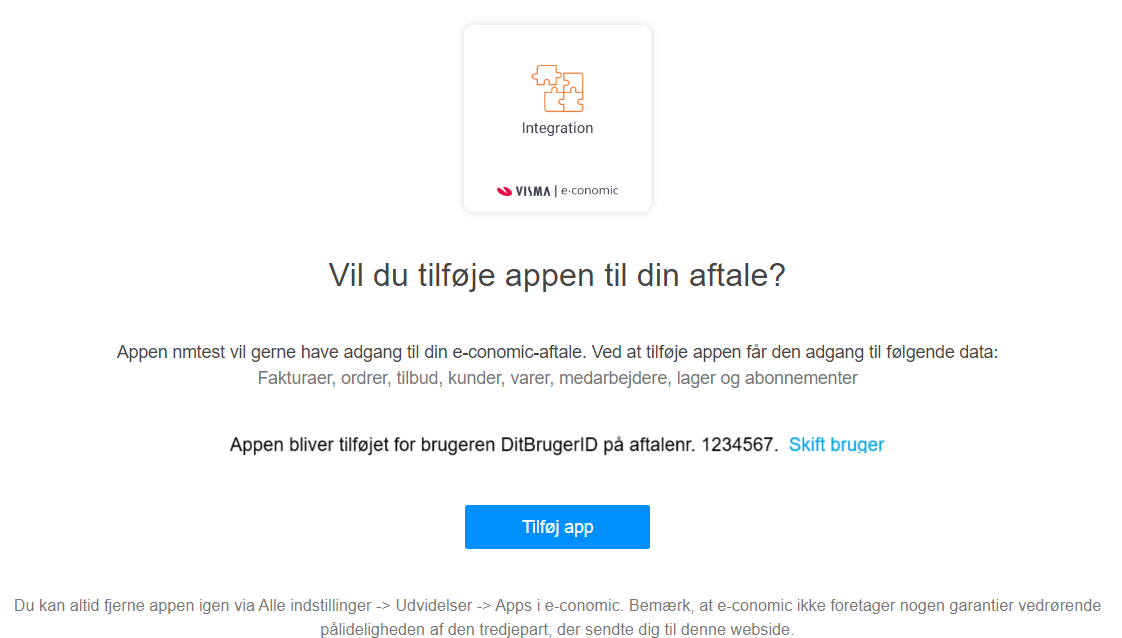
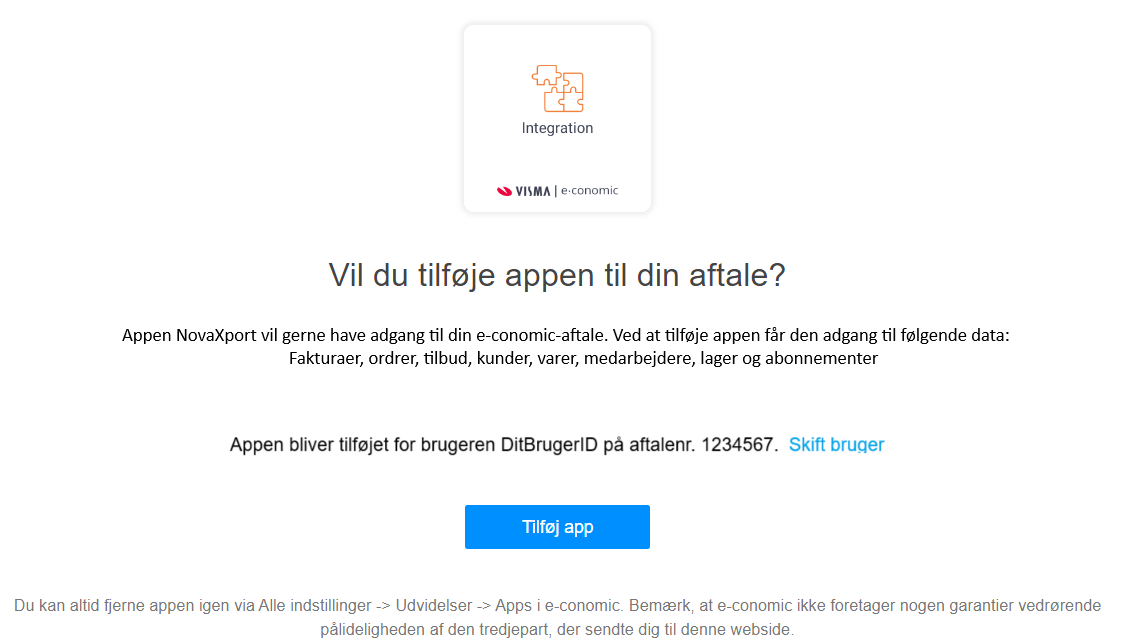
Rev 1

Changed region(s): [[0.0936, 0.5063, 0.9046, 0.6254]]

diff --git a/Configuration.md b/Configuration.md
@@ -18,14 +18,14 @@ Her findes to datafiler:
 - `Credentials.xml`
 - `NovaxData.db`
 
-Den første indeholder brugernavn og adgangskode til NOVAX-serverne og mailserveren.
+Den første indeholder brugernavn og adgangskode til NOVAX-serverne og nøgler til mailserveren.
 
 Den anden, databasen, indeholder *fem lister*, der styrer den daglige funktion af **NovaXport**:
 
 1. Serverne, der skal læses fakturaer fra - minimum én
 2. Selskaberne hos e-conomic, der skal eksporteres fakturaer til - minimum ét
-3. Fakturaerne (numre og dato) og deres status
-4. Ugetidsplan for hvornår og hvor tit, **NovaXport** skal genlæse fakturalisten på serveren
+3. Fakturaerne (numre og udskrivningsdato) og deres status
+4. Ugetidsplan for hvornår og hvor tit, **NovaXport** skal genlæse fakturalisten på serverne
 5. Modtagerne af den daglige e-mail med listen over eventuelle manglende fakturafiler
 
 
@@ -35,7 +35,7 @@ Filen `Credentials.xml` indeholder brugernavn og adgangskode for brugerkontoen, 
 
 > Det anbefales kraftigt ikke at bruge en normal brugerkonto, men at oprette en speciel brugerkonto, der kun bruges af **NovaXport**, kun med læseadgang til den delte mappe.
 >
-> Dette skal gøres af NOVAX, da de administrerer serveren. Det aktuelle brugernavn og tilhørende adgangskode skal derfor aftales med NOVAX og skal være kendt af NOVAX' support.
+> Dette skal gøres af NOVAX, da de administrerer serverne. Det aktuelle brugernavn og tilhørende adgangskode skal derfor aftales med NOVAX og skal være kendt af NOVAX' support.
 
 Det er en standard XML-fil, der kan redigeres med fx _Notesblok_, og det gøres nemmest ved at bruge _genvejen_ `NovaXport Credentials` omtalt under [Installation][Installation]. 
 
@@ -50,12 +50,12 @@ Filen ser således ud:
     <Username>NovaxEksport</Username>
     <Password>VoresMegetLangeAdgangskode</Password>
     <AppSecretToken>2RIukREatPIvuN92ry89My1cazJtx3LUX9bFsCMVBA81</AppSecretToken>
-	<MailjetPublicToken>8d50a951512e1d9f051efbd1f336b55b</MailjetPublicToken>
-	<MailjetPrivateToken>28849ccda2b3c50790f580aedf7d50fe</MailjetPrivateToken>
+    <MailjetPublicToken>8d50a951512e1d9f051efbd1f336b55b</MailjetPublicToken>
+    <MailjetPrivateToken>28849ccda2b3c50790f580aedf7d50fe</MailjetPrivateToken>
 </ReaderAccount>
 ```
 
-Adgangen til den delte mappe på serveren styres af de tre felter:
+Adgangen til de delte mapper på serverne styres af de tre felter:
 
 - `Domain`
 - `Username`
@@ -74,16 +74,18 @@ De to sidste felter:
 - `MailjetPublicToken`
 - `MailjetPrivateToken`
 
-er nøglerne til e-mailtjenesten hos MailJet, der bruges til at udsende listen med manglende fakturaer. De må ikke ændres eller slettes.
+er nøglerne til e-mailtjenesten hos Mailjet, der bruges til at udsende listen med manglende fakturaer. De må ikke ændres eller slettes.
 
 
 ### Tilføj selskab (klinik)
 
-For at NovaXport kan sende fakturaer til e-conomic, skal to ting være på plads.
+For at NovaXport kan sende fakturaer til et selskab i e-conomic, skal tre ting være på plads:
 
-For det første skal "e-conomic appen NovaXport" *tilknyttes selskabet* ved at blive tilføjet listen over apps, som selskabet kan kommunikere med. Det skal gøre inde i e-conomic.
+1. For det første skal i e-conomic appen "NovaXport" *tilknyttes selskabet* ved at blive tilføjet listen over apps, som selskabet kan kommunikere med. Det skal gøre inde i e-conomic
 
-Dernæst skal selskabet i **NovaXPort**s database *tilføjes listen over selskaber*, der kan eksporteres fakturaer til.
+2. Dernæst skal nogle grupper og eventuelt afdelinger *oprettes* i e-conomic
+
+3. Endelig skal selskabet i **NovaXPort**s database *tilføjes listen over selskaber*, der kan eksporteres fakturaer til
 
 Når appen (NovaXport) tilføjes i e-conomic, generes en *unik nøgle* (Adgangs-ID/token), som identificerer de to over for hinanden. Med dette Adgangs-ID:
 
@@ -91,19 +93,19 @@ Når appen (NovaXport) tilføjes i e-conomic, generes en *unik nøgle* (Adgangs-
 - fortæller **NovaXport**, når den kontakter e-conomic, hvilket selskab der skal kommunikeres med 
 
 
-#### Tilknyt app i e-conomic
+#### 1. Tilknyt app i e-conomic
 
-Du skal have en superbruger/administrator-brugerkonto til e-conomic til rådighed.
+Du skal have en *superbruger/administrator*-brugerkonto til e-conomic til rådighed.
 
 1. Log ind med denne brugerkonto på [Visma Home][Visma home]
-3. Hvis I har flere selskaber, så vælg det, der skal eksporteres til fra NOVAX
-4. Vælg fra topmenuen *Indstillinger* punktet *Alle indstillinger*
-5. Vælg i menuen til venstre punktet *Apps*
-6. Nu vises enten en liste med de apps, der tidligere er aktiveret, eller denne side: *Sådan tilføjer du apps*
+2. Hvis I har flere selskaber, så vælg det, der skal eksporteres til fra NOVAX
+3. Vælg fra topmenuen *Indstillinger* punktet *Alle indstillinger*
+4. Vælg i menuen til venstre punktet *Apps*
+5. Nu vises enten en liste med de apps, der tidligere er aktiveret, eller denne side: *Sådan tilføjer du apps*
 
-7.  1. *Kopiér* nu [dette link][App link]
+6.  1. *Kopiér* nu [dette link][App link]
     2. Åbn en ny side i browseren
-    3. *Indsæt* derefter linket (kopieret i pkt. 1) i den nye side og tryk *Enter*
+    3. *Indsæt* derefter linket (kopieret ovenfor) browserens søgelinje (URL) og tryk *Enter*
     4. Denne side vises nu:
 
     <br>![Tilføj app][Attach app]<br>
@@ -124,11 +126,13 @@ Du skal have en superbruger/administrator-brugerkonto til e-conomic til rådighe
 Når dette er på plads, vil e-conomic nu tillade dit selskab og NovaXport at kommunikere indbyrdes.
 
 
-#### Justér og kontrollér selskabets opsætning i e-conomic
+#### 2. Justér og kontrollér selskabets opsætning i e-conomic
 
 Før **NovaXport** kan eksportere fakturaer, skal følgende være oprettet:
 
 - Kundegruppe 100
+- Varegruppe 100
+- Afdeling 10000 (hvis afdelinger/dimensioner er i brug i e-conomic)
 
 For at en faktura/kreditnota kan oprettes og bogføres i e-conomic skal den have disse oplysninger:
 
@@ -140,20 +144,40 @@ For at en faktura/kreditnota kan oprettes og bogføres i e-conomic skal den have
 6. En betalingsbetingelse af typen med forfaldsdato
 7. Et layout
 
-Det sker ved at:
+Det sker på to forskellige måder afhængig af, om kunden er en privatperson eller er en myndighed eller en erhvervsvirksomhed
 
-- For hver faktura, der skal eksporteres, vil **NovaXport** forsøge at finde kunden, først via CVR-nummeret for erhvervskunder, dernæst via navnet. Findes ikke et eksakt match, oprettes kunden og knyttes til den første indenlandske kundegruppe og den første indenlandske momszone, der er oprettet i e-conomic
-- Nye varenumre knyttes til varegruppe 1 i e-conomic
+#### Erhverv og myndigheder
+
+Disse har altid et CVR- eller EAN-nummer og eksporteres således:
+
+- For hver faktura, der skal eksporteres, vil **NovaXport** forsøge at finde kunden, først via CVR-nummeret for erhvervskunder, dernæst via navnet. Findes ikke et eksakt match, oprettes kunden og knyttes til kundegruppe 100
+- Momszone og layout hentes fra kundens kundegruppe
+- Nye varenumre knyttes til varegruppe 100
 - Hvis en betalingsbetingelse med forfaldsdato ikke findes i e-conomic, oprettes den med navnet "Standard"
-- Som layout bruges det første, der kan findes i e-conomic
+- Kunden vil fremstå som adressat på fakturaudskriften
+- klientens/patientens CPR-nummer angives på fakturaen som en reference
 
-> Hvis ikke dette flow kan følges, kan fakturaen ikke bogføres, og den kan måske heller ikke oprettes som en kladde. I begge tilfælde vil **NovaXport** rapportere en fejl i loggen.
+#### Privatpersoner
+
+Disse har altid et CPR-nummer, men oprettes ikke som separate kunder. I stedet knyttes de til en "samlekunde" knyttet til kundegruppe 100. Denne samlekunde oprettes (automatisk) med klinikkens ydernummer som kundenummer, fx:
+
+`33221 Lægehuset Nyborg`
+
+Hvis flere klinikker er knyttet til det samme selskab, vil der derfor findes en samlekunde for hver klinik.
+
+Disse fakturaer eksporteres derfor således:
+
+- For hver faktura, der skal eksporteres, vil **NovaXport** finde klinikkens samlekunde ud fra ydernummeret
+- Momszone og layout hentes fra samlekundens kundegruppe
+- Nye varenumre knyttes til varegruppe 100
+- Hvis en betalingsbetingelse med forfaldsdato ikke findes i e-conomic, oprettes den med navnet "Standard"
+- Klienten/patienten vil fremstå som adressat på fakturaudskriften
+- klientens/patientens CPR-nummer angives på fakturaen som en reference
+
+> Hvis ikke et af disse to flows kan følges, kan fakturaen ikke bogføres, og den kan måske heller ikke oprettes som en kladde. I begge tilfælde vil **NovaXport** rapportere en fejl i loggen.
 
 
-Næste trin er at muliggøre dette for **NovaXport**.
-
-
-#### Tilknyt selskab i NovaXport
+#### 3. Tilknyt selskab i NovaXport
 
 Åbn databasen med databasemanageren. Bruges genvejen (anbefalet under [Installation][Installation]), vises straks tabellen *Company*, som indeholder listen med selskaber. Hvis en anden tabel vises, så vælg *Company* i kombinationsfeltet *Table*.
 
@@ -198,7 +222,7 @@ For hver server, **NovaXport** skal skanne og læse NOVAX-fakturaer fra, skal br
 
 Åbn databasen med databasemanageren og vælg tabellen *Server* i kombinationsfeltet *Table*.
 
-Gå til en ny post og indsæt i felterne *Hostname* og *ShareName* hhv. serverens *Hostname* og navnet på dens den *delte mappe* med fakturafilerne oprettet af NOVAX.
+Gå til en ny post og indsæt i felterne *Hostname* og *ShareName* hhv. serverens *Hostname* og navnet på den *delte mappe* med fakturafilerne oprettet af NOVAX.
 
 Felterne *Id* og *Inactive* vil allerede være udfyldte og må ikke ændres. 
 
@@ -253,7 +277,7 @@ Standardtidsplanen ser således ud:
 
 ### Tilføj modtagere af fakturamangellisten
 
-Efter dagens første kørsel kan **NovaXport** udsende en e-mail en liste over tilsyneladende manglende filer. Modtagerne skrives ind i databasen:
+Efter dagens første kørsel kan **NovaXport** udsende en e-mail med en liste over tilsyneladende manglende filer. Modtagerne skrives ind i databasen:
 
 Åbn databasen med databasemanageren og vælg tabellen *Recipient* i kombinationsfeltet *Table*.
 

diff --git a/Installation.md b/Installation.md
@@ -14,7 +14,6 @@ Kun NOVAX har administratorrettighed til serveren, der afvikler NOVAX-systemet. 
 Eksempler på den fysiske mappe på serveren, hvor fakturafilerne bliver gemt:
 - `F:\App8\Novax\Finans`
 - `F:\App8\Økonomifiler`
-- `F:\C5`
 
 ### E-conomic
 
@@ -94,7 +93,7 @@ som typisk vil være disse fysiske mapper:
 - `C:\Program Files`
 - `C:\ProgramData`
 
-Det kan gøres enten manuelt med _Stifinder_.
+Det kan gøres enten manuelt eller med _Stifinder_.
 
 #### 2. Halvautomatisk installation
 
@@ -105,7 +104,7 @@ Det kan gøres enten manuelt med _Stifinder_.
 
 #### Kontrol af installation
 
-Herefter skal der som minimum være disse filer i mapperne:
+Herefter skal der i de to mapper som minimum være disse fire filer:
 
 - `C:\Program Files\Novax Export`
   - `appsettings.json`
@@ -154,7 +153,7 @@ Desuden er der undermapper med hjælpeprogrammer til visning af databasen og log
 >
 > Derfor er der også (se ovenfor) inkluderet en *genvej*, `NovaXport Service Prompt`, der åbner `cmd.exe` med administratorrettigheder. Den kan umiddelbart kopieres til *Skrivebord*.
 
-*Den første* kommandofil er den kritiske, for det er den, der med gentagne kald af `sc.exe` registrerer `NovaXport.exe` som en tjeneste med den korrekte konfiguration. Den ser således ud:
+*Den første* kommandofil er den kritiske, for det er den, der ved gentagne kald af `sc.exe` registrerer `NovaXport.exe` som en tjeneste med den korrekte konfiguration. Den ser således ud:
 
 ```cmd
 : Command file for registering NovaXport as a service.
@@ -270,18 +269,18 @@ SERVICE_NAME: NovaXport
 Et tastetryk afslutter.
 ```
 
-På tilsvarende måde kan tjenesten stoppes, fjernes og få vist sin status.
+På tilsvarende måde kan tjenesten stoppes, fjernes eller få vist sin status.
 
 
 #### Database-manager
 
 Endelig skal `DB Browser (SQLite)` installeres, da den skal bruges til at opsætte **NovaXport**s database, vedligeholde den og justere **NovaXport**s funktion (se [Konfiguration][Configuration] og [Kontrol og vedligeholdelse][Maintenance]).
 
-Installationsfilen hertil, `DB.Browser.for.SQLite` ligger i undermappen `SQLiteBrowser`.
+Installationsfilen hertil, `DB.Browser.for.SQLite.msi` ligger i undermappen `SQLiteBrowser`.
 
 Installationen kan gennemføres med standardindstillinger og -valg. Herefter kan genvejen `NovaXport Database` (se ovenfor) bruges til at åbne **NovaXport**s database direkte.
 
-Bruger man genvejen, åbnes *DB Browser for SQLite* straks og viser tabellen *Company*, og de øvrige tabeller kan man uden videre vælge også at få vist:
+Bruger man genvejen, åbnes *DB Browser for SQLite* straks og viser tabellen *Company*, og de øvrige tabeller kan man uden videre vælge også at få vist ved at vælge dem i kombinationsboksen *Table*:
 
 ![NovaxData Company][Display table Company] 
 
@@ -308,6 +307,8 @@ URL'en ovenfor åbnes med Edge, og API'et skal straks svare:
 `Healthy`
 
 Kontakt Cactus Data, hvis det ikke er tilfældet, for **NovaXport** vil ikke eksportere fakturaer uden denne forbindelse.
+
+> **NB**: Hvis API'er er aktivt, men *ydernummeret ikke kan slås op*, anvendes et "standard" ydernummer: 10000
 
 <hr>
 

diff --git a/Maintenance.md b/Maintenance.md
@@ -91,7 +91,7 @@ eller for en kreditnota:
 
 `Novax_12345678_11223344_Kreditnote.xml`
 
-hvor det første tal er fakturanummeret, og det andet er CVR-nummeret.
+hvor det første tal er fakturanummeret, og det andet er CVR-nummeret på selskabet, klinikken er knyttet til.
 
 Feltet *FileDate* er fildatoen, som kan være en anden end fakturadatoen. Det gælder især for en faktura, der genudskrives i Novax-systemet, hvor fildatoen da vil være dags dato.
 
@@ -117,7 +117,7 @@ Eksporterede fakturaer vil være bogført i e-conomic. De kan derfor ses under *
 
 Listen med tilsyneladende manglende fakturafiler udsendes dagligt. Modtagerne står opført i tabellen *Recipient* i databasen. Listen kan ændres efter behov:
 
-Åbn databasen med databasemanageren og vælg tabellen *Recipient* i kombinationsfeltet *Table* og tilret listen.
+- Åbn databasen med databasemanageren og vælg tabellen *Recipient* i kombinationsfeltet *Table* og tilret listen.
 
 En modtager kan sættes på pause ved at ændre værdien i felt *Inactive* til **1**. Pausen afsluttes ved at ændre værdien tilbage til **0**. Er pausen permanent, kan man i stedet slette hele posten. 
 
@@ -172,9 +172,9 @@ Der er to datafiler at sikkerhedskopiere. De ligger begge i mappen `%ProgramData
 
 Den første er låst, mens **NovaXport** kører, men ændres ikke, så efter installation og konfiguration kan der blot gemmes en kopi af den et passende sted.
 
-Dene anden vil normalt kun være åbnet i få sekunder af gangen, så enhver gængs metode til sikkerhedskopiering kan benyttes.
+Dene anden vil normalt kun være åbnet i få sekunder ad gangen, så enhver gængs metode til sikkerhedskopiering kan benyttes.
 
-**NovaXPort** selv behøver ikke at sikkerhedskopieres, da den nemt kan installeres igen, i fald Windows skal retableres, eller maskinen udskiftes.
+**NovaXport** programfilerne behøver ikke at sikkerhedskopieres, da de nemt kan installeres igen, i fald Windows skal retableres, eller maskinen udskiftes.
 
 
 ### Opdatering af NovaXport

diff --git a/ReadMe.md b/ReadMe.md
@@ -79,6 +79,7 @@ Kontakt [Cactus Data](mailto:Cactus%20Data%20<cactus@cactus.dk>?subject=NovaXpor
 For hjælp til **NovaXport**, kontakt [Cactus Data Service](mailto:Cactus%20Data%20Service%20<service@cactus.dk>?subject=NovaXport).
 
 ![Cactus Data ApS][Cactus Data logo]
+
 <hr>
 
 
